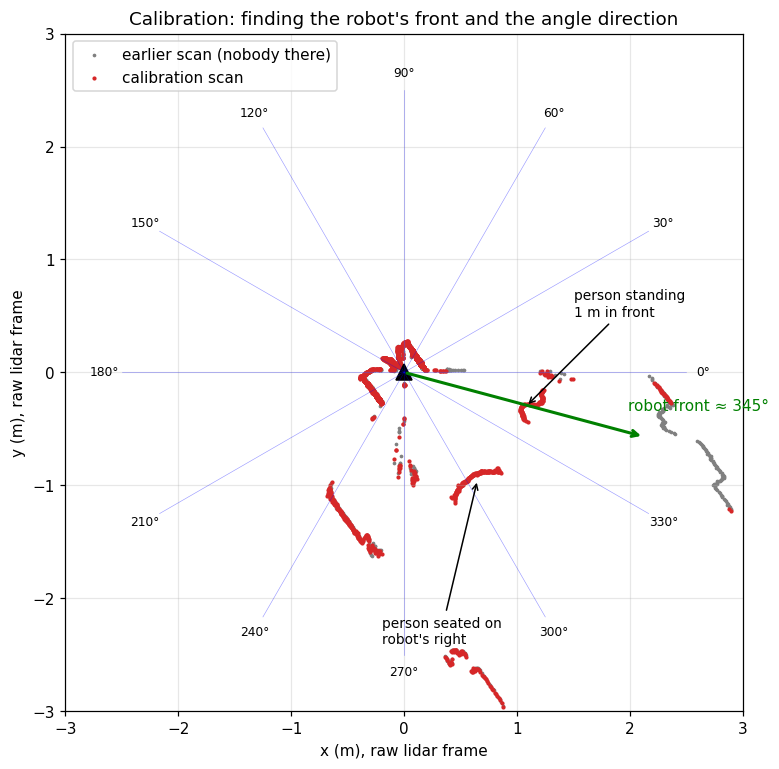
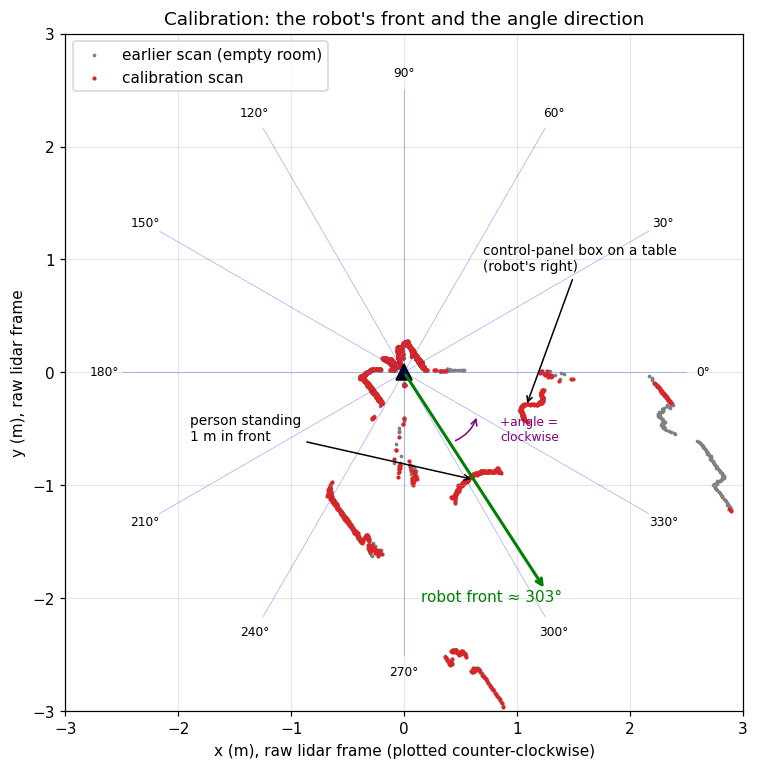
Correct LiDAR calibration: front is ~303 deg and angles run clockwise

diff --git a/README.md b/README.md
@@ -228,7 +228,7 @@ Each dot is one measurement converted from (angle, distance) to (x, y):
 
 **What we did**
 
-1. One person stood exactly in front of the robot at 1 m, and a second person sat beside them, on the robot's right.
+1. One person stood exactly in front of the robot at 1 m. A second person sat beside them, and a control-panel box sat on a table to the standing person's left.
 2. We captured a new scan (`read_scan.py 10`) and compared it with the earlier scan from Entry 1, when nobody was there.
 3. For every 1° slice of the circle we looked for points that were now **much closer** than before (more than 15 cm). Anything new in the room shows up this way. This is called **background subtraction**.
 
@@ -238,23 +238,38 @@ Each dot is one measurement converted from (angle, distance) to (x, y):
 
 | LiDAR angle | Distance | Shape | What it is |
 |-------------|----------|-------|------------|
-| 338°–353° (centre ~345°) | 1.08–1.16 m | Rounded blob, ~30 cm wide | Standing person's legs. The LiDAR sits only ~11 cm above the floor, so it sees ankles, not bodies |
-| ~290°–315° (centre ~300°) | ~1.1–1.2 m | Straighter edge, ~45 cm | Seated person: chair legs and shins |
+| 291°–314° (centre **~303°**) | 1.09–1.24 m (median 1.12 m) | Edge ~45 cm wide | **The standing person's legs and feet.** The LiDAR sits only ~11 cm above the floor, so it sees ankles, not bodies |
+| 338°–353° (centre ~346°) | 1.08–1.26 m | Rounded blob ~30 cm wide | A control-panel box on a table, on the person's left, which is the **robot's right** |
+
+The seated person did not show up as a separate object.
+
+> **A mistake worth recording.** The first time through, we guessed the labels the other way round: the rounded blob was "obviously" legs, so it had to be the person. That gave a front of 345° and "counter-clockwise" angles, both wrong. The person in the room corrected it. Lesson: **a scan is just dots. Never label objects by guessing what their shape "looks like"; check against what is actually in the room.** A cleaner experiment uses a single object and one change at a time.
 
 **Conclusions**
 
-- **Units: 1 raw unit = 1 mm.** The standing person measured 1.08 m from the LiDAR's centre. They were 1 m from the front of the robot, and the LiDAR sits a few centimetres behind the front, so this fits. (Feet are not a precise target; a flat box and a tape measure would do better.)
-- **The robot's front is at about 345° in the LiDAR's own angles, not 0°.** So `angle_robot = angle_lidar + 15°` (approximately; people make a fuzzy target). Either the LiDAR is mounted slightly rotated or its 0° mark simply isn't aligned with the robot. Either way, our software has to correct for it.
-- **Angles increase counter-clockwise.** The seated person on the robot's **right** appeared at a **lower** angle (300°) than the front (345°). Counter-clockwise is also the ROS convention (REP 103: x forward, y left, angles counter-clockwise), so the data does **not** need mirroring. We had expected clockwise from YDLIDAR's documentation. Lesson: test instead of assuming.
+- **Units: 1 raw unit = 1 mm.** The person was 1 m from the front of the robot; the nearest leg points measured 1.09 m from the LiDAR's centre, which sits a little behind the front. (Feet are a fuzzy target; a flat box and a tape measure would be more precise.)
+- **The robot's front is at about 303° in the LiDAR's own angles, not 0°.** The LiDAR's zero mark is about 57° away from straight ahead.
+- **Angles increase clockwise** (seen from above). The box on the robot's **right** appeared at a **higher** angle (346°) than the front (303°). This matches YDLIDAR's documentation, but it is the **opposite** of ROS, where angles increase counter-clockwise (REP 103: x forward, y left). So the scan must be **mirrored** when converting to ROS.
+
+Putting both corrections together, the angle as ROS expects it (0 = straight ahead, positive = to the left) is:
+
+```
+angle_robot = 303° - angle_lidar
+```
+
+Check with the box: 303° − 346° = −43°, a negative angle, which is the robot's right. ✓
+
+*Note:* the plot above draws raw angles counter-clockwise like a normal maths graph, so in it the room appears mirrored.
 
 The raw data for this experiment is in [`docs/phase1_person_1m.csv`](docs/phase1_person_1m.csv).
 
 **Still open**
 
-- Measure the front offset more precisely with a flat box placed dead ahead.
+- Measure the front offset more precisely with a single flat box placed dead ahead.
+- Re-confirm the clockwise direction with one object at a time (this time we'll see it live in RViz).
 - Find which angles hit the robot's own body (the points within ~30 cm of the LiDAR) so we can mask them out.
 
-**Next step:** Phase 2, our own ROS 2 node that publishes the scan as `sensor_msgs/LaserScan`, with the +15° front correction applied.
+**Next step:** Phase 2, our own ROS 2 node that publishes the scan as `sensor_msgs/LaserScan` using `angle_robot = 303° − angle_lidar`. In RViz we can then double-check the direction live by walking to the robot's left and right.
 
 ## Glossary
 
